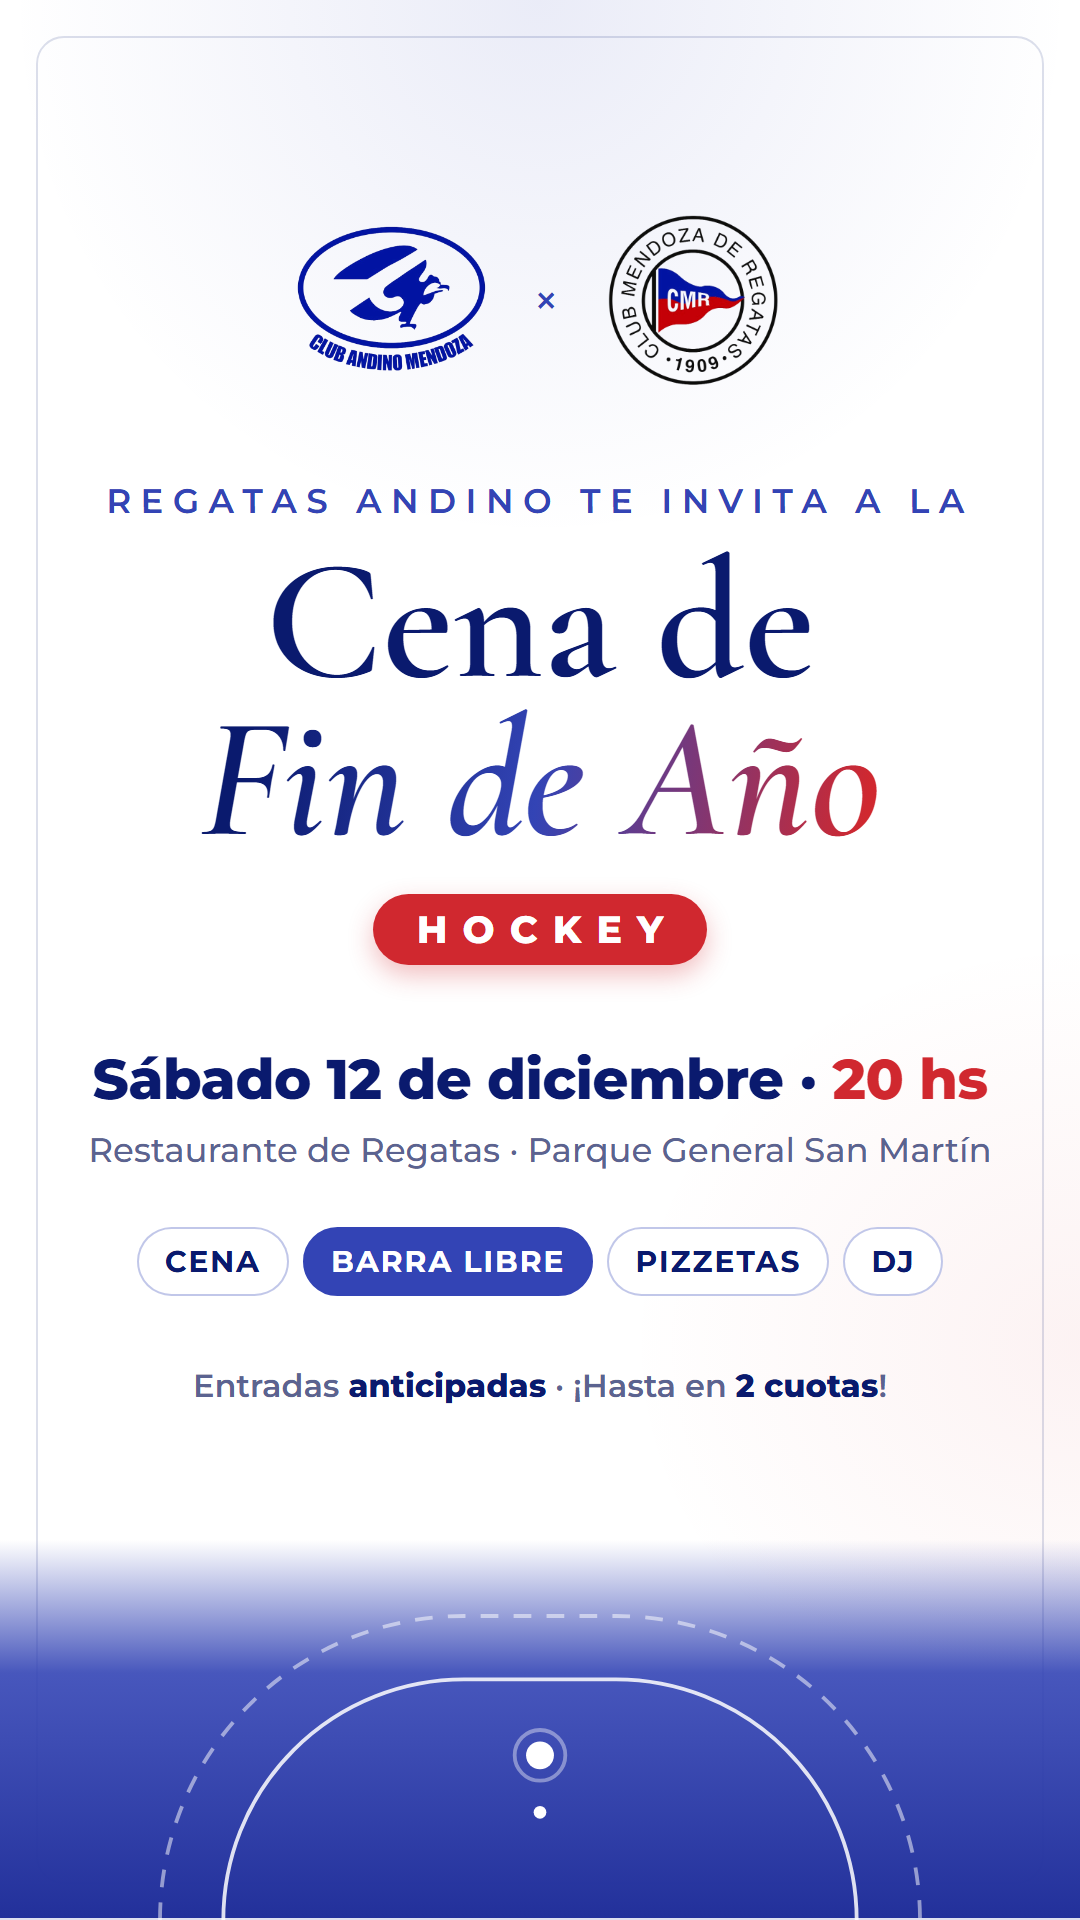
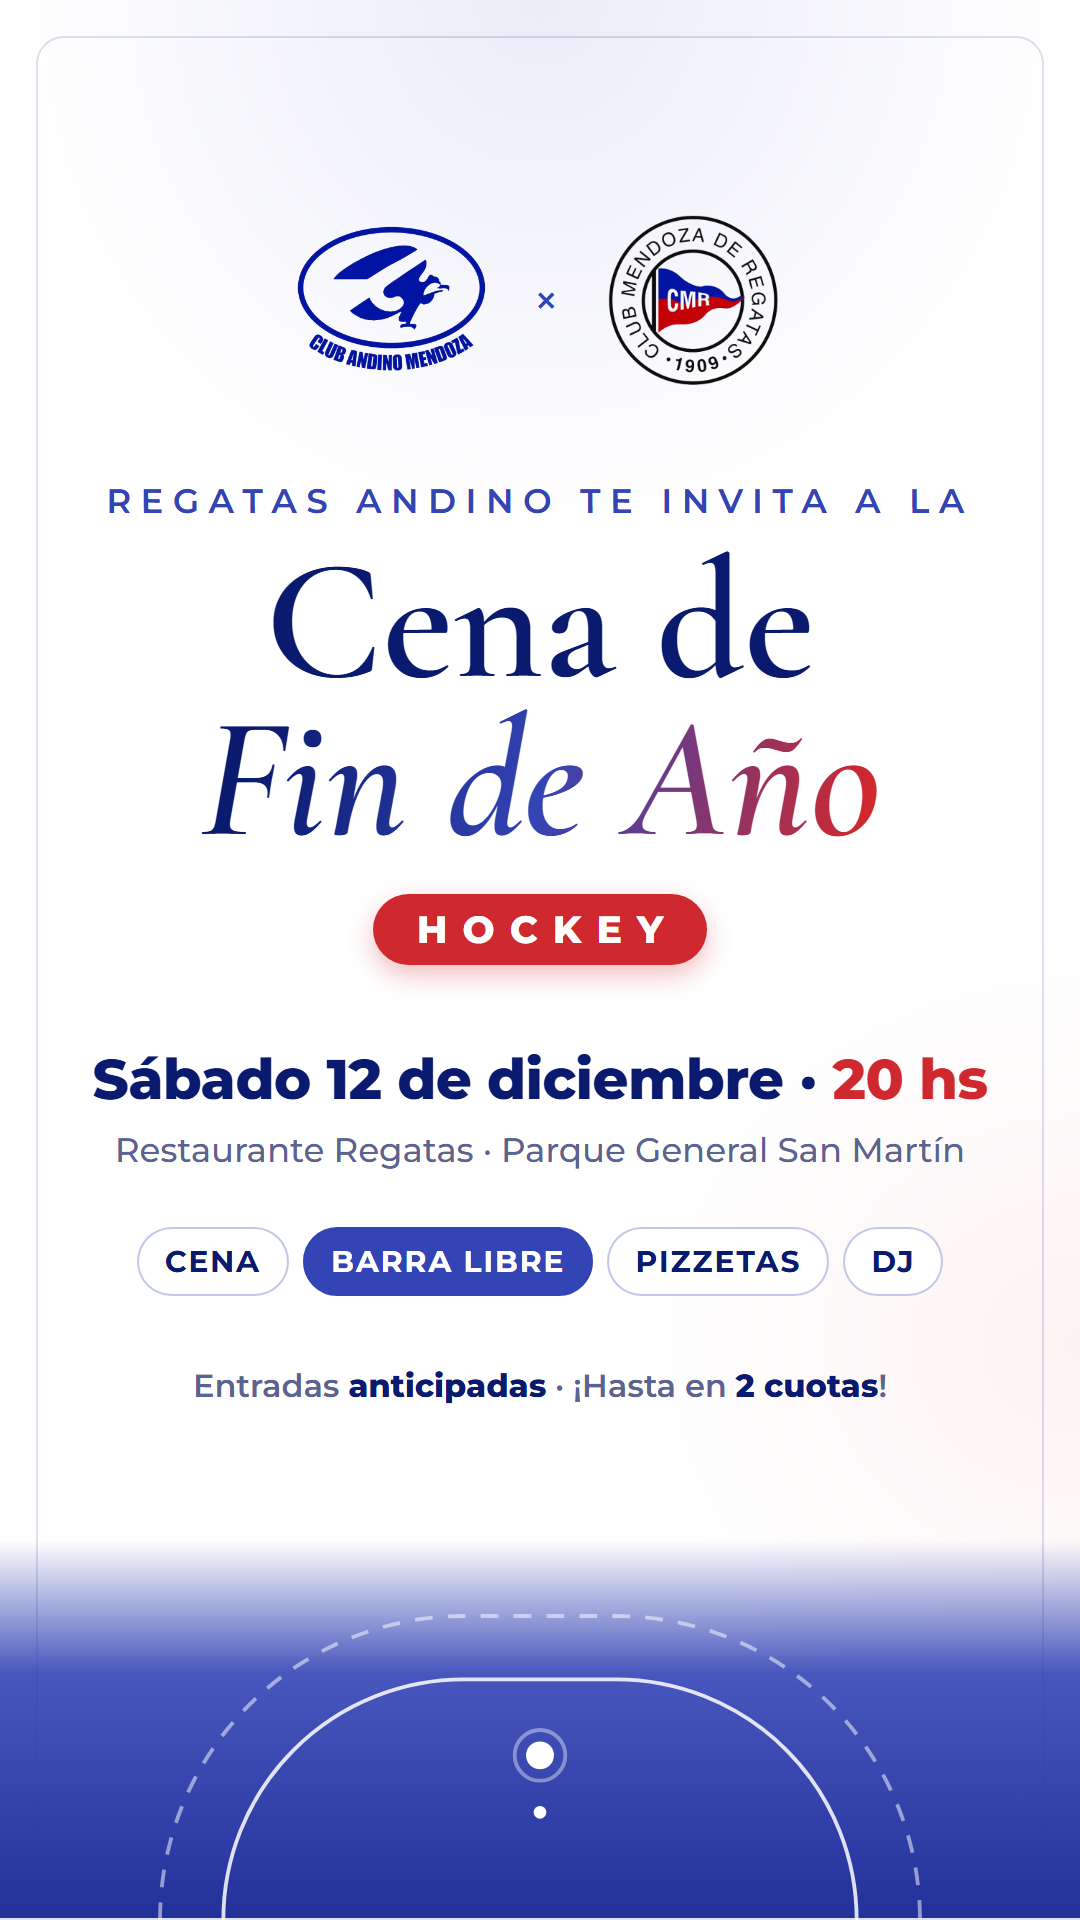
"Restaurante Regatas" en lugar de "Restaurante de Regatas"
En la invitación, la vista previa del link, el evento de calendario y los
flyers (regenerados).

Changed region(s): [[0.0917, 0.5938, 0.9167, 0.625]]

diff --git a/index.html b/index.html
@@ -4,7 +4,7 @@
   <meta charset="utf-8">
   <meta name="viewport" content="width=device-width, initial-scale=1, viewport-fit=cover">
   <title>Cena de Fin de Año del Hockey · Regatas Andino</title>
-  <meta name="description" content="Te invitamos a la Cena de Fin de Año del Hockey de Regatas Andino. Sábado 12 de diciembre, 20 hs, en el Restaurante de Regatas.">
+  <meta name="description" content="Te invitamos a la Cena de Fin de Año del Hockey de Regatas Andino. Sábado 12 de diciembre, 20 hs, en el Restaurante Regatas.">
   <meta name="theme-color" content="#e3e9ff">
 
   <!-- Tema de colores: la invitación es clara (data-theme="claro" en <html>).
@@ -23,12 +23,12 @@
   <meta property="og:site_name" content="Regatas Andino">
   <meta property="og:locale" content="es_AR">
   <meta property="og:title" content="Cena de Fin de Año del Hockey · Regatas Andino">
-  <meta property="og:description" content="Sábado 12 de diciembre · 20 hs · Restaurante de Regatas. Cena, barra libre y DJ. ¡Te esperamos!">
+  <meta property="og:description" content="Sábado 12 de diciembre · 20 hs · Restaurante Regatas. Cena, barra libre y DJ. ¡Te esperamos!">
   <meta property="og:image" content="https://ivancsir.github.io/cena-hockey/img/og-flyer-historia.jpg">
   <meta property="og:image:type" content="image/jpeg">
   <meta property="og:image:width" content="1080">
   <meta property="og:image:height" content="1920">
-  <meta property="og:image:alt" content="Flyer de la Cena de Fin de Año del Hockey: sábado 12 de diciembre, 20 hs, Restaurante de Regatas">
+  <meta property="og:image:alt" content="Flyer de la Cena de Fin de Año del Hockey: sábado 12 de diciembre, 20 hs, Restaurante Regatas">
   <meta name="twitter:card" content="summary_large_image">
 
   <link rel="icon" href="img/logo-regatas.png">
@@ -139,7 +139,7 @@
           <svg viewBox="0 0 24 24"><path d="M12 21s-7-6.2-7-11.5A7 7 0 0 1 19 9.5C19 14.8 12 21 12 21Z"/><circle cx="12" cy="9.5" r="2.5"/></svg>
         </div>
         <h2>Dónde</h2>
-        <p class="card__big">Restaurante de Regatas</p>
+        <p class="card__big">Restaurante Regatas</p>
         <p>Av. Las Palmeras S/N<br>Parque General San Martín, Mendoza</p>
         <div class="card__actions">
           <a class="btn btn--ghost" data-link="maps" target="_blank" rel="noopener">¿Cómo llegar?</a>

diff --git a/flyer/flyer.html b/flyer/flyer.html
@@ -163,7 +163,7 @@
 
   <div class="info">
     <p class="fecha">Sábado 12 de diciembre · <b>20 hs</b></p>
-    <p class="lugar">Restaurante de Regatas · Parque General San Martín</p>
+    <p class="lugar">Restaurante Regatas · Parque General San Martín</p>
   </div>
 
   <ul class="extras">
